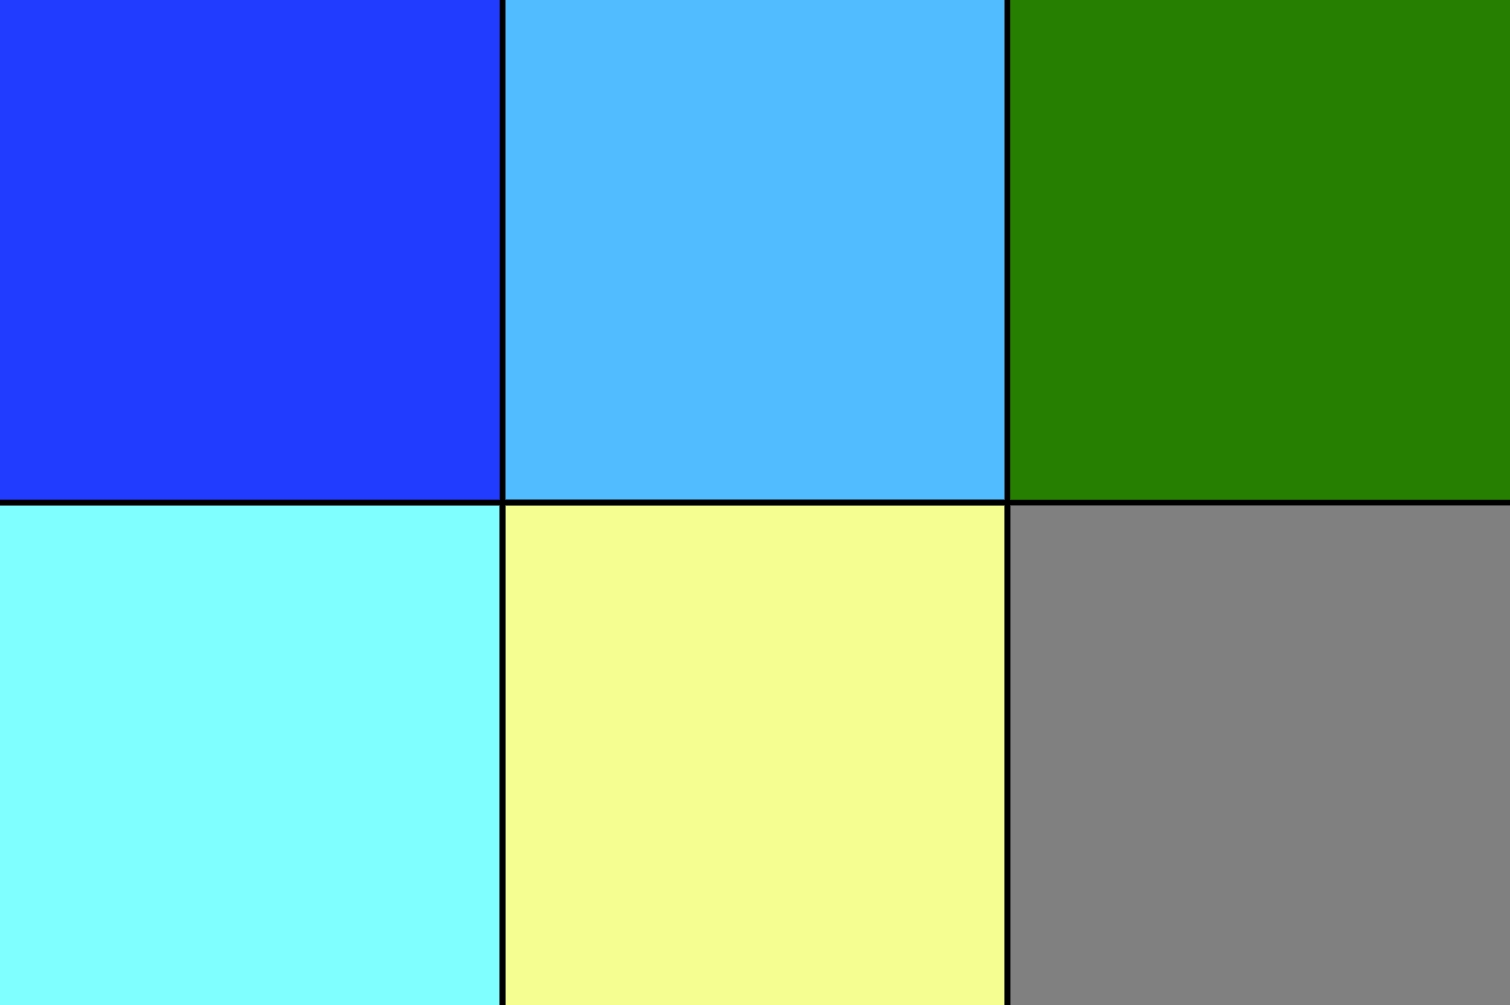
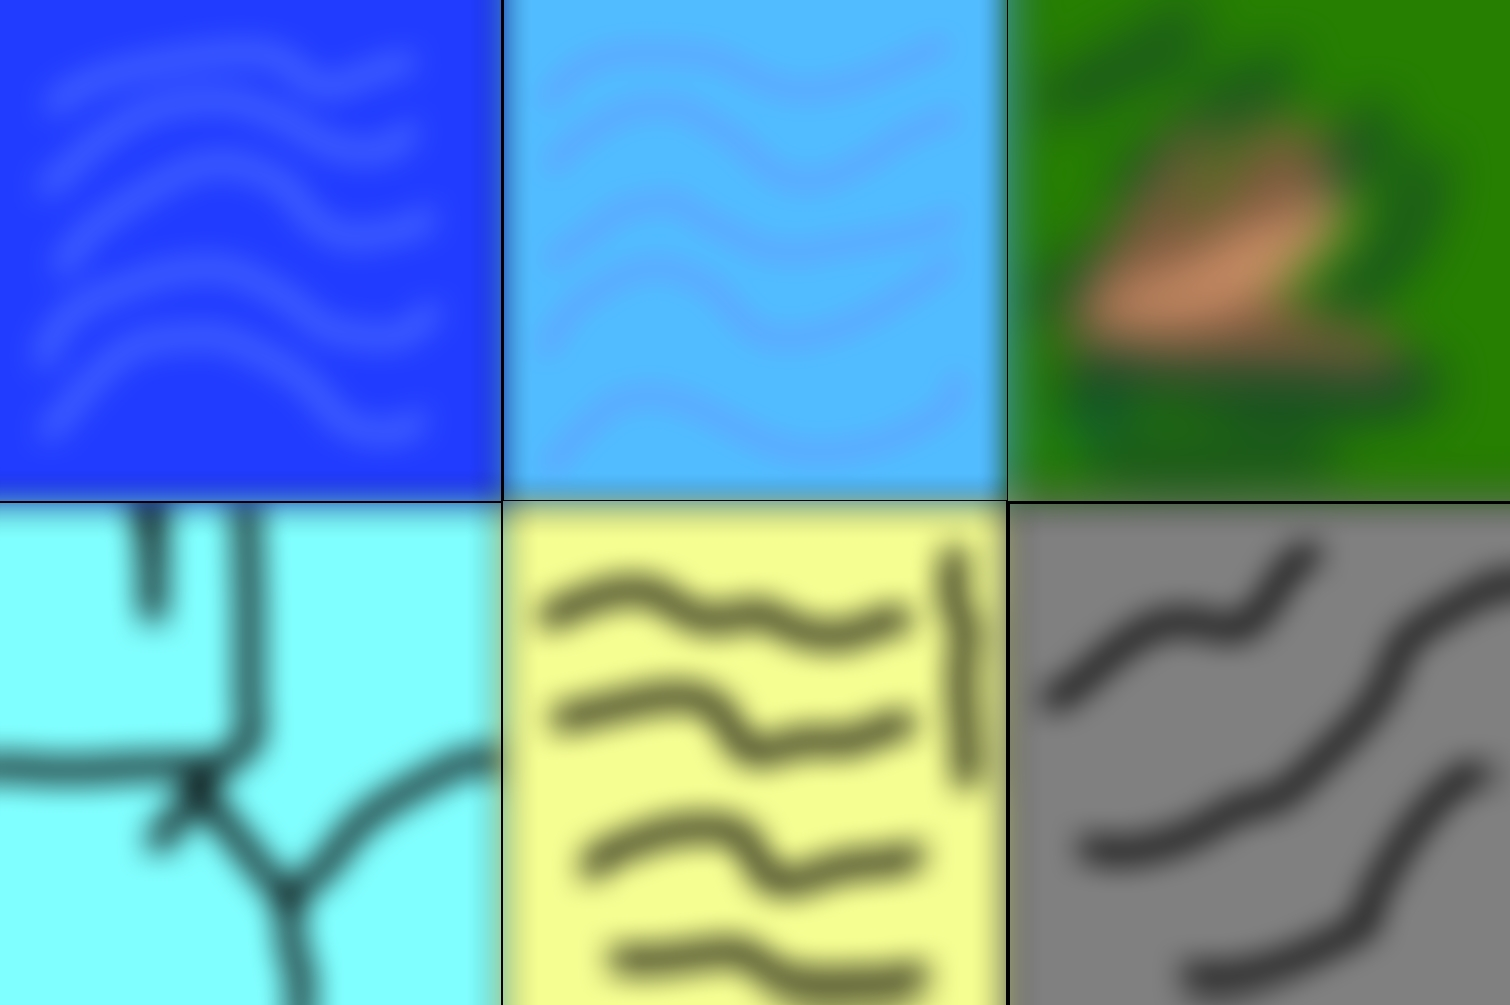
Broken

diff --git a/src/main/GameMap.java b/src/main/GameMap.java
@@ -76,26 +76,32 @@ public class GameMap implements Refresh,SaveAble{
 		int isIn;
 		for(int i = 0; i < squares.length; i++){
 			for(int j = 0; j < squares[0].length; j++){
-				p = getPosOfSquare(i,j);
-				isIn = GameStateManager.s.isSquareIn(p); 
-				if(	 isIn != 0){
-					if(isIn == 1)
-						p.minus(GameStateManager.s);
-					else
-						if(GameStateManager.s.getX() < 0)
-							p.addX(-MAX_WIDTH).minus(GameStateManager.s);
+				
+					p = getPosOfSquare(i,j);
+					isIn = GameStateManager.s.isSquareIn(p); 
+					if(	 isIn != 0){
+						if(isIn == 1)
+							p.minus(GameStateManager.s);
 						else
-							p.addX(MAX_WIDTH).minus(GameStateManager.s);
-					g.setColor(StatFunc.getColor(squares[i][j].getType()));
-					g.fillRect((int) p.getX(), (int) p.getY(), (int) getSquareWidth(), (int) getSquareHeight());
-					/*temp = StatFunc.typeToMapPart(squares[i][j]);
-					g.drawImage(tiles, 
-							(int) p.getX()						, (int) p.getY()					,
-							(int) p.getX() + getSquareWidth()	, (int) p.getY() + getSquareHeight(),
-							(int) temp.getX()					, (int) temp.getY()					,
-							(int) temp.getX() + 500				, (int) temp.getY() + 500		
-							,null);*/
+							if(GameStateManager.s.getX() < 0)
+								p.addX(-MAX_WIDTH).minus(GameStateManager.s);
+							else
+								p.addX(MAX_WIDTH).minus(GameStateManager.s);
+						//if(getSquareWidth() > 100){
+						g.setColor(StatFunc.getColor(squares[i][j].getType()));
+						g.fillRect((int) p.getX(), (int) p.getY(), (int) getSquareWidth(), (int) getSquareHeight());
+						/*}else{
+							temp = StatFunc.typeToMapPart(squares[i][j]);
+							g.drawImage(tiles, 
+									(int) p.getX()						, (int) p.getY()					,
+									(int) p.getX() + getSquareWidth()	, (int) p.getY() + getSquareHeight(),
+									(int) temp.getX()					, (int) temp.getY()					,
+									(int) temp.getX() + 500				, (int) temp.getY() + 500		
+									,null);
+						}*/
+						
 				}
+				
 			}
 		}
 	}
